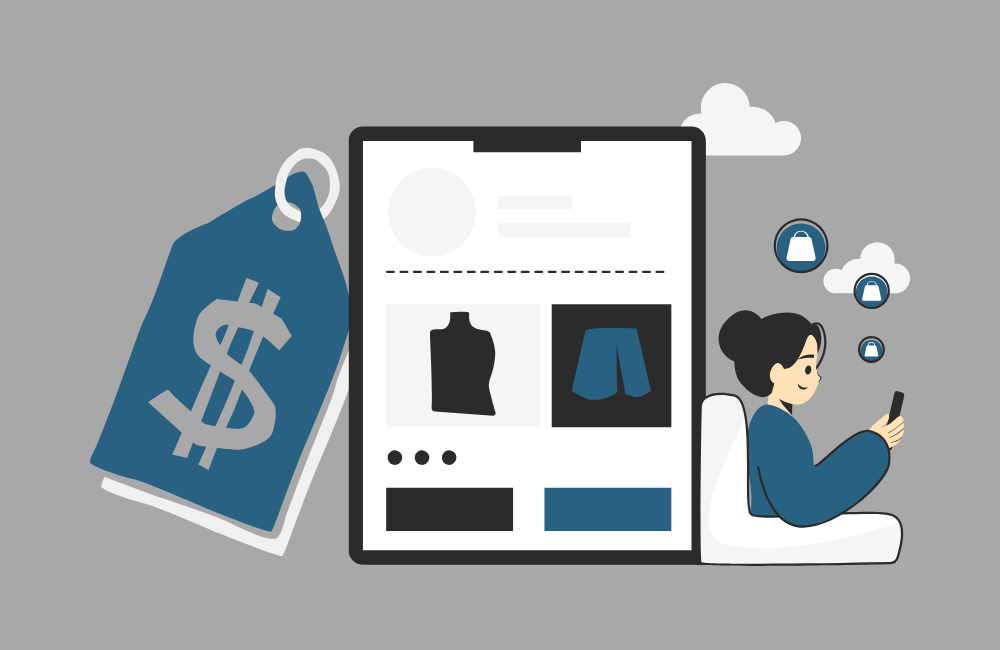
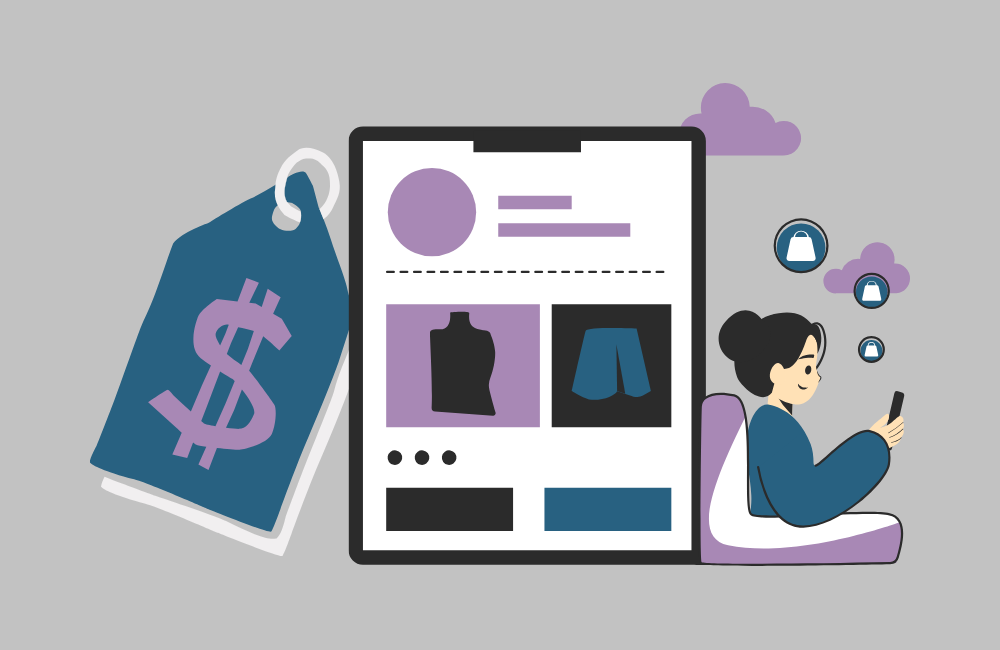
feat: improve card layout

diff --git a/src/app/projects/_components/card.tsx b/src/app/projects/_components/card.tsx
@@ -4,6 +4,8 @@ import { motion, useScroll, useTransform } from "framer-motion";
 import Image from "next/image";
 import Link from "next/link";
 import { useRef } from "react";
+import { CiGlobe } from "react-icons/ci";
+import { IoIosCode } from "react-icons/io";
 
 import { Icons } from "./icons";
 
@@ -45,59 +47,59 @@ export const Card: React.FC<CardProps> = ({
   return (
     <div
       ref={container}
-      className="h-screen flex items-center justify-center sticky top-0"
+      className="h-screen flex items-center justify-center sticky m-2 top-0"
     >
       <motion.div
         style={{
-          backgroundColor: color,
+          background: color,
           scale,
           top: `calc(-5vh + ${i * 25}px)`,
         }}
-        className="flex flex-col relative -top-[25%] h-[500px] w-[800px] p-8 md:p-12 origin-top"
+        className="relative flex flex-col md:flex-row items-center gap-8 -top-[25%] h-[500px] w-[800px] p-8 md:p-12 origin-top shadow-md"
       >
-        <div className="flex flex-col md:flex-row items-center h-full mt-12 gap-8 md:gap-12">
-          <div className="relative w-full md:w-2/5 flex flex-col justify-center gap-8 font-extralight">
-            <h2 className="text-center text-2xl md:text-4xl font-light">
-              {title}
-            </h2>
+        <div className="relative h-full w-full md:w-3/5 md:py-8 flex flex-col justify-between gap-4 font-extralight">
+          <h2 className="text-center text-3xl sm:text-5xl font-light tracking-tighter text-[#A888B5]">
+            {title}
+          </h2>
 
-            <Icons stacks={stacks} />
+          <Icons stacks={stacks} />
 
-            <div className="flex items-center justify-between gap-4 mt-4 text-lg md:text-xl">
-              <Link
-                href={repositoryUrl}
-                target="_blank"
-                className="hover:underline underline-offset-2"
-              >
-                Repositório
-              </Link>
-              {liveUrl && (
-                <Link
-                  href={liveUrl}
-                  target="_blank"
-                  className="hover:underline underline-offset-2"
-                >
-                  Live
-                </Link>
-              )}
-            </div>
-          </div>
-
-          <div className="w-full h-full overflow-hidden rotate-6">
-            <motion.div
-              className="w-full h-full relative"
-              style={{ scale: imageScale }}
+          <div className="flex flex-col items-center gap-4 mt-4 text-lg md:text-xl tracking-wider">
+            <Link
+              href={repositoryUrl}
+              target="_blank"
+              className="w-44 p-1 flex gap-2 items-center justify-center bg-[#f0f0f0] shadow hover:opacity-80 hover:shadow-none hover:scale-95"
             >
-              <Image
-                alt="image"
-                src={imageUrl}
-                fill
-                priority
-                sizes="(max-width: 768px) 100vw, (max-width: 1200px) 50vw, 33vw"
-                className="object-cover absolute"
-              />
-            </motion.div>
+              <IoIosCode />
+              Veja o Código
+            </Link>
+            {liveUrl && (
+              <Link
+                href={liveUrl}
+                target="_blank"
+                className="w-44 p-1 flex gap-2 items-center justify-center bg-[#d9bae6] shadow hover:opacity-80 hover:shadow-none hover:scale-95"
+              >
+                <CiGlobe />
+                Confira Online
+              </Link>
+            )}
           </div>
+        </div>
+
+        <div className="w-full h-full mt-4 overflow-hidden rotate-6">
+          <motion.div
+            className="w-full h-full relative"
+            style={{ scale: imageScale }}
+          >
+            <Image
+              alt="image"
+              src={imageUrl}
+              fill
+              priority
+              sizes="(max-width: 768px) 100vw, (max-width: 1200px) 50vw, 33vw"
+              className="object-contain absolute"
+            />
+          </motion.div>
         </div>
       </motion.div>
     </div>

diff --git a/src/data/projects.ts b/src/data/projects.ts
@@ -6,7 +6,6 @@ type ProjectsProps = {
   liveUrl?: string;
   stacks: string[];
   color: string;
-  iconColor: string;
 };
 
 export const projects: ProjectsProps[] = [
@@ -17,8 +16,8 @@ export const projects: ProjectsProps[] = [
     repositoryUrl: "https://github.com/jessicasantosb/trabalhos-artesanais",
     liveUrl: "https://trabalhos-artesanais.vercel.app/",
     stacks: ["react", "typescript", "firebase", "tailwind", "jest", "eslint"],
-    color: "#d8d8d8",
-    iconColor: "#a8a8a8",
+    color:
+      "linear-gradient(135deg, rgba(240,240,240,1) 0%, rgba(216,216,216,1) 35%)",
   },
   {
     id: 2,
@@ -27,8 +26,8 @@ export const projects: ProjectsProps[] = [
     repositoryUrl: "https://github.com/jessicasantosb/booking-room",
     liveUrl: "https://booking-room-jessicasantosb.vercel.app/",
     stacks: ["react", "javascript", "sass", "stripe", "nodejs"],
-    color: "#a8a8a8",
-    iconColor: "#d8d8d8",
+    color:
+      "linear-gradient(135deg, rgba(240,240,240,1) 0%, rgba(194,194,194,1) 30%)",
   },
   {
     id: 3,
@@ -46,8 +45,8 @@ export const projects: ProjectsProps[] = [
       "zod",
       "zustand",
     ],
-    color: "#d8d8d8",
-    iconColor: "#a8a8a8",
+    color:
+      "linear-gradient(135deg, rgba(240,240,240,1) 0%, rgba(216,216,216,1) 35%)",
   },
   {
     id: 4,
@@ -65,7 +64,7 @@ export const projects: ProjectsProps[] = [
       "prisma",
       "cloudinary",
     ],
-    color: "#a8a8a8",
-    iconColor: "#d8d8d8",
+    color:
+      "linear-gradient(135deg, rgba(240,240,240,1) 0%, rgba(194,194,194,1) 30%)",
   },
 ];

diff --git a/src/app/projects/_components/icons.tsx b/src/app/projects/_components/icons.tsx
@@ -2,9 +2,9 @@ import Image from "next/image";
 
 export function Icons({ stacks }: { stacks: string[] }) {
   return (
-    <div className="flex items-center gap-1">
+    <div className="flex items-center flex-wrap justify-evenly gap-1">
       {stacks.map((stack, index) => (
-        <div key={index} className="size-8 relative">
+        <div key={index} className="size-8 sm:size-12 relative">
           <Image
             alt="ícone"
             src={`/assets/icons/${stack}.svg`}
